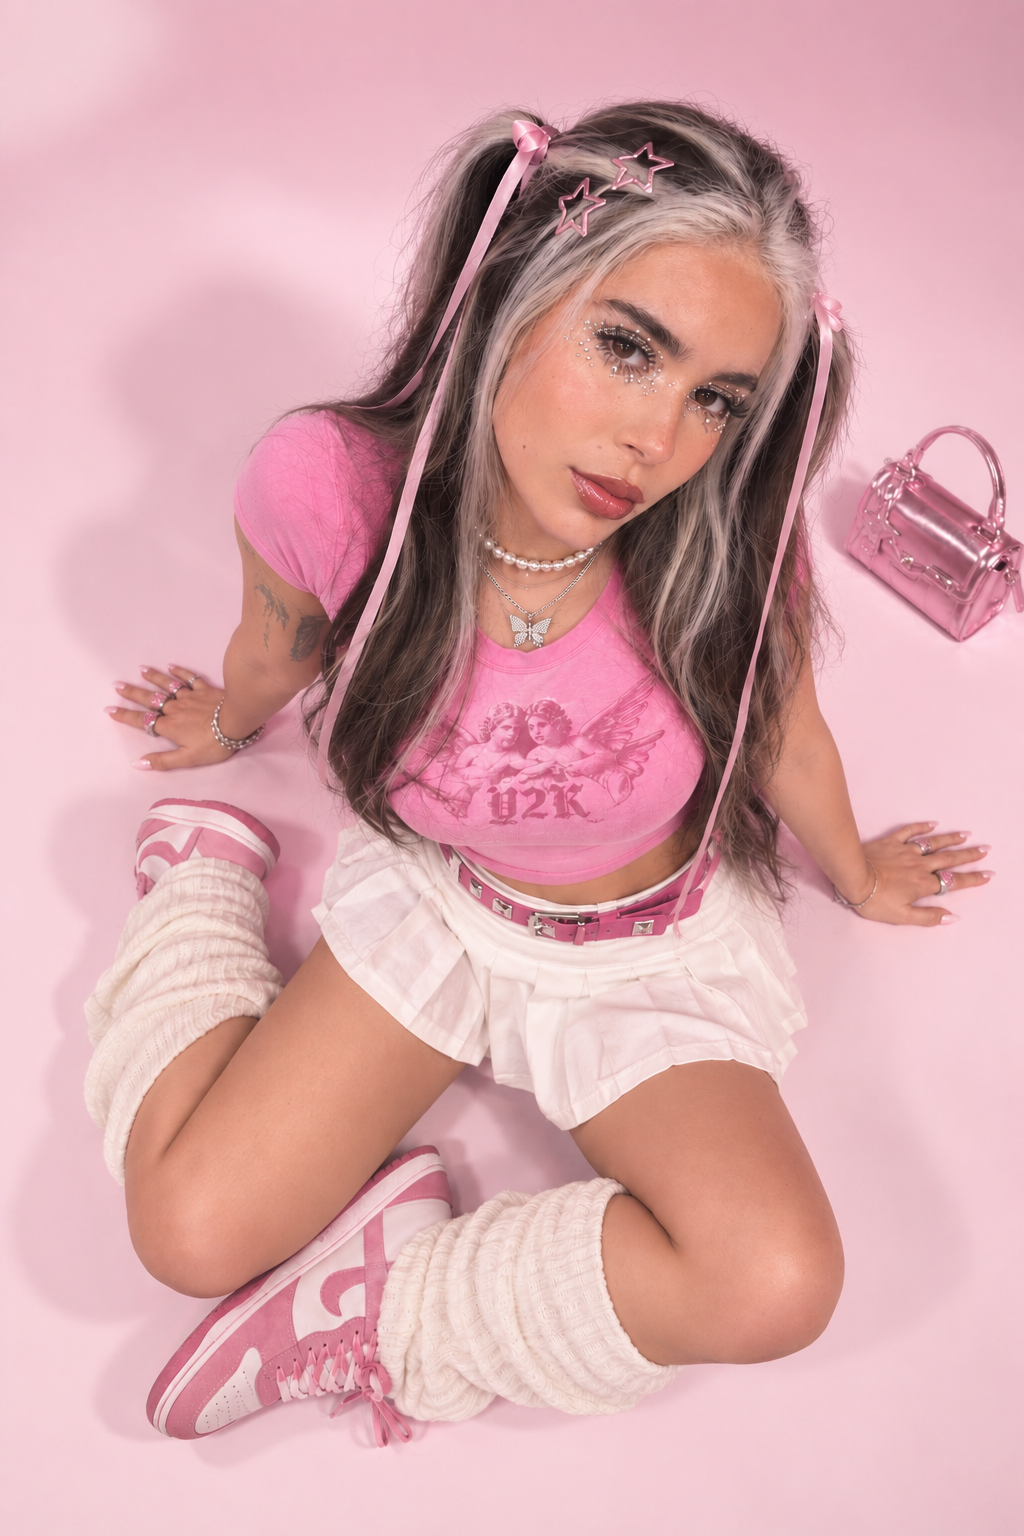
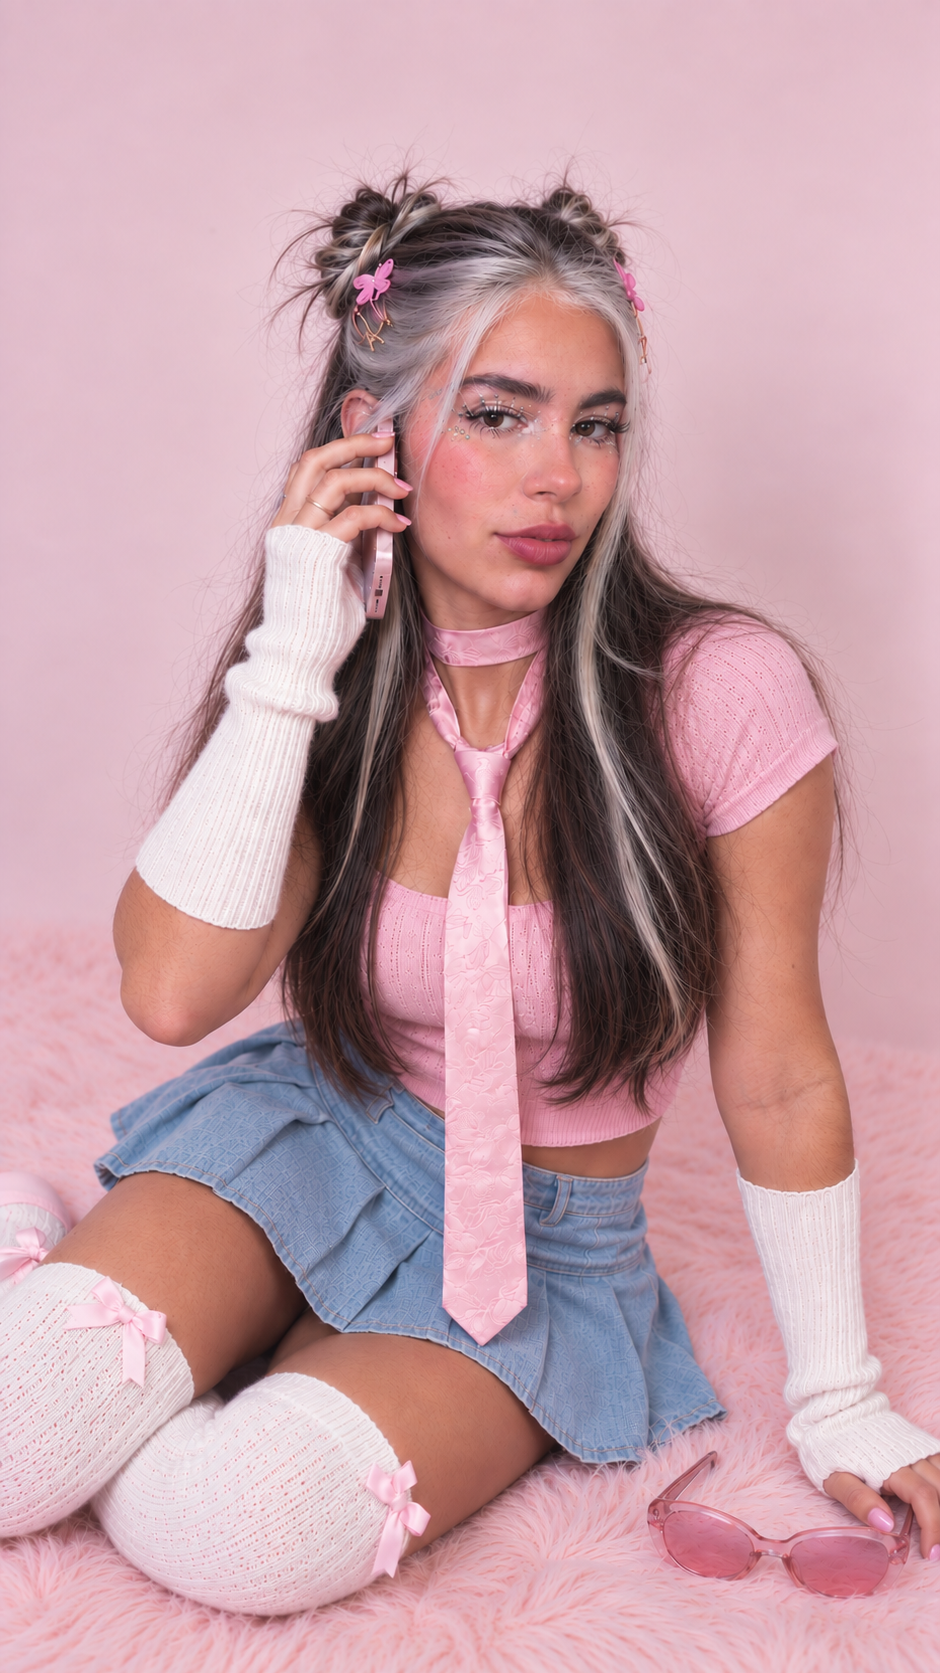
Videos tocam dentro da pagina, fotos atualizadas e ajustes de leitura
- Secao de videos reformulada: uma linha horizontal por categoria (com
  contagem, subtitulo e setas), preview silencioso no hover e clique
  abre lightbox que reproduz o video dentro da propria pagina (sem
  redirecionar pro youtube). Remove a aba "todos" e reordena "ads"
  para a 3a linha
- Fotos novas do Sobre Mim (retrato, bastidores, nano influencer) e
  legenda da 3a polaroide agora "hi, it's me ;)"
- Remove o brilho glossy das fotos reais (ph-real)
- Aumenta o texto de servicos, processo e duvidas pra melhor leitura
- Emoji do hero-sub trocado por beijo, na mesma linha do texto
- Pilha de polaroides abre mais (e mais pra cima) no hover
- .processo-list e .chat-window mais largos

diff --git a/index.html b/index.html
@@ -116,8 +116,9 @@ section{ position:relative; padding:100px 0 90px; }
 }
 .ph:hover::after{ transform:translateX(10%); }
 
-/* .ph-real: mesma moldura/glossy do placeholder, mas com foto de verdade dentro */
+/* .ph-real: mesma moldura do placeholder, mas com foto de verdade dentro (sem o brilho glossy) */
 .ph.ph-real{ padding:0; background:var(--black); }
+.ph.ph-real::after{ content:none; }
 .ph.ph-real img{ position:absolute; inset:0; width:100%; height:100%; object-fit:cover; }
 .ph span{ font-size:.8rem; opacity:.75; }
 
@@ -366,9 +367,9 @@ section{ position:relative; padding:100px 0 90px; }
 .photo-stack .polaroid:nth-child(1){ transform:rotate(-9deg) translate(-20px,-6px); z-index:1; }
 .photo-stack .polaroid:nth-child(2){ transform:rotate(6deg) translate(16px,8px); z-index:2; }
 .photo-stack .polaroid:nth-child(3){ transform:rotate(-2deg) translate(-2px,22px); z-index:3; }
-.photo-stack:hover .polaroid:nth-child(1){ transform:rotate(-15deg) translate(-54px,-12px); }
-.photo-stack:hover .polaroid:nth-child(2){ transform:rotate(10deg) translate(48px,4px); }
-.photo-stack:hover .polaroid:nth-child(3){ transform:rotate(-1deg) translate(0,30px); }
+.photo-stack:hover .polaroid:nth-child(1){ transform:rotate(-19deg) translate(-74px,-46px); }
+.photo-stack:hover .polaroid:nth-child(2){ transform:rotate(13deg) translate(68px,-30px); }
+.photo-stack:hover .polaroid:nth-child(3){ transform:rotate(-1deg) translate(0,20px); }
 @media (max-width:640px){
   .photo-stack{ width:180px; height:270px; }
   .photo-stack .polaroid{ width:180px; }
@@ -420,34 +421,43 @@ section{ position:relative; padding:100px 0 90px; }
    VÍDEOS
    ========================================================================== */
 .videos{ background:var(--pink-pale); border-bottom:3px dashed var(--black); }
-.filters{
-  display:flex; flex-wrap:wrap; gap:10px; justify-content:center; margin-bottom:44px;
+
+.video-rows{ display:flex; flex-direction:column; gap:52px; }
+.cat-row-head{
+  display:flex; justify-content:space-between; align-items:flex-end; gap:20px;
+  margin-bottom:18px; flex-wrap:wrap;
 }
-.filter-btn{
-  border:2.5px solid var(--black); background:var(--white); color:var(--black);
-  font-family:var(--f-label); letter-spacing:.05em; font-size:.85rem;
-  padding:9px 18px; border-radius:999px; box-shadow:var(--shadow-hard-sm);
+.cat-row-title{
+  font-family:var(--f-label); font-size:1.5rem; letter-spacing:.03em;
+  text-transform:uppercase; margin:0;
+}
+.cat-row-count{ font-family:var(--f-script); font-weight:700; font-size:1.05rem; color:var(--pink-hot); }
+.cat-row-sub{ font-family:var(--f-script); font-style:italic; font-weight:600; font-size:1.05rem; color:#5a4d47; margin:2px 0 0; }
+.cat-row-nav{ display:flex; gap:8px; flex-shrink:0; }
+.cat-nav-btn{
+  width:38px; height:38px; border-radius:50%; border:2.5px solid var(--black);
+  background:var(--white); box-shadow:var(--shadow-hard-sm); font-family:var(--f-label);
+  font-size:1.2rem; line-height:1; display:flex; align-items:center; justify-content:center;
   transition:transform .2s ease, background .2s ease, color .2s ease;
 }
-.filter-btn:hover{ transform:translateY(-3px) rotate(-2deg); }
-.filter-btn.active{ background:var(--pink-hot); color:var(--white); transform:rotate(1.5deg); }
-
-.video-grid{
-  display:grid; grid-template-columns:repeat(4,1fr); gap:22px;
+.cat-nav-btn:hover{ background:var(--pink-hot); color:var(--white); transform:translateY(-2px); }
+.cat-row-scroll{
+  display:flex; gap:18px; overflow-x:auto; padding:4px 4px 10px; scroll-behavior:smooth;
+  scrollbar-width:none;
 }
-@media (max-width:960px){ .video-grid{ grid-template-columns:repeat(3,1fr); } }
-@media (max-width:680px){ .video-grid{ grid-template-columns:repeat(2,1fr); } }
-@media (max-width:420px){ .video-grid{ grid-template-columns:1fr; } }
+.cat-row-scroll::-webkit-scrollbar{ display:none; }
+.cat-row-scroll .vcard{ flex:0 0 190px; }
+@media (max-width:640px){ .cat-row-scroll .vcard{ flex-basis:150px; } }
+
 .vcard{
-  display:block; text-decoration:none; color:inherit;
-  background:var(--white); border:2.5px solid var(--black); box-shadow:var(--shadow-hard);
+  display:block; background:var(--white); border:2.5px solid var(--black); box-shadow:var(--shadow-hard);
   overflow:hidden; transition:transform .3s ease, box-shadow .3s ease; cursor:pointer;
-  min-width:0; /* impede que texto longo force a coluna a crescer e desconfigure o tamanho */
 }
 .vcard:hover{ transform:translateY(-8px) rotate(-1deg); box-shadow:8px 10px 0 var(--pink-hot); }
-.vcard .cover{ position:relative; aspect-ratio:9/16; background:#000; }
+.vcard .cover{ position:relative; aspect-ratio:9/16; background:#000; overflow:hidden; }
 .vcard .cover .ph{ position:absolute; inset:0; font-size:.75rem; overflow-wrap:anywhere; }
 .vcard .cover-img{ position:absolute; inset:0; width:100%; height:100%; object-fit:cover; }
+.vcard .preview-frame{ position:absolute; inset:0; width:100%; height:100%; z-index:1; border:0; pointer-events:none; }
 .vcard .cat-tag{
   position:absolute; top:10px; left:10px; font-family:var(--f-label); font-size:.68rem;
   letter-spacing:.06em; background:var(--black); color:var(--pink-pale); padding:4px 10px;
@@ -467,6 +477,25 @@ section{ position:relative; padding:100px 0 90px; }
 .vcard .meta{ padding:14px 16px 18px; }
 .vcard .meta h3{ font-family:var(--f-label); font-size:1.15rem; letter-spacing:.02em; margin:0 0 4px; overflow-wrap:anywhere; }
 .vcard .meta p{ font-family:var(--f-script); font-weight:600; font-size:.98rem; color:#5a4d47; margin:0; overflow-wrap:anywhere; }
+
+/* lightbox: reproduz o vídeo dentro da própria página, sem sair pro youtube */
+.video-lightbox{
+  position:fixed; inset:0; background:rgba(24,19,15,.85); z-index:100;
+  display:flex; align-items:center; justify-content:center; padding:24px;
+  opacity:0; pointer-events:none; transition:opacity .3s ease;
+}
+.video-lightbox.show{ opacity:1; pointer-events:auto; }
+.video-lightbox-inner{ position:relative; width:100%; max-width:420px; }
+.video-lightbox-frame{
+  position:relative; width:100%; aspect-ratio:9/16; background:#000;
+  border:3px solid var(--black); box-shadow:8px 8px 0 var(--pink-hot); overflow:hidden;
+}
+.video-lightbox-frame iframe{ position:absolute; inset:0; width:100%; height:100%; border:0; }
+.video-lightbox-close{
+  position:absolute; top:-16px; right:-16px; width:38px; height:38px; border-radius:50%;
+  background:var(--white); border:2.5px solid var(--black); box-shadow:var(--shadow-hard-sm);
+  font-family:var(--f-label); font-size:1.1rem; z-index:2;
+}
 
 /* ==========================================================================
    TICKER DE MARCAS (variante não-fixa do ticker do topo)
@@ -523,8 +552,8 @@ section{ position:relative; padding:100px 0 90px; }
 .serv-card:hover{ transform:translateY(-6px) rotate(1.5deg); box-shadow:6px 8px 0 var(--pink-hot); }
 .serv-page{ position:absolute; top:14px; right:16px; font-family:var(--f-label); font-size:.7rem; color:#a89a92; }
 .serv-icon{ margin-bottom:14px; }
-.serv-card h3{ font-family:var(--f-label); font-size:1.3rem; letter-spacing:.02em; margin:0 0 8px; text-transform:uppercase; }
-.serv-card p{ font-family:var(--f-script); font-weight:600; font-size:1rem; color:#5a4d47; margin:0 0 12px; }
+.serv-card h3{ font-family:var(--f-label); font-size:1.45rem; letter-spacing:.02em; margin:0 0 10px; text-transform:uppercase; }
+.serv-card p{ font-family:var(--f-script); font-weight:600; font-size:1.15rem; line-height:1.45; color:#3f342f; margin:0 0 12px; }
 .serv-tag{
   display:inline-block; font-family:var(--f-label); font-size:.68rem; letter-spacing:.05em;
   text-transform:uppercase; background:var(--pink-pale); border:1.5px solid var(--black);
@@ -549,10 +578,10 @@ section{ position:relative; padding:100px 0 90px; }
   border:2.5px solid var(--black); color:var(--white); font-family:var(--f-display);
   font-size:1.4rem; display:flex; align-items:center; justify-content:center;
 }
-.processo-text{ font-family:var(--f-script); font-weight:600; font-size:1.05rem; line-height:1.4; }
+.processo-text{ font-family:var(--f-script); font-weight:600; font-size:1.2rem; line-height:1.45; }
 .processo-text strong{
   font-family:var(--f-label); letter-spacing:.03em; text-transform:uppercase;
-  color:var(--pink-deep); display:block; margin-bottom:2px; font-size:1rem;
+  color:var(--pink-deep); display:block; margin-bottom:3px; font-size:1.15rem;
 }
 @media (max-width:640px){
   .processo-item{ border-radius:22px; align-items:flex-start; padding:18px 20px; }
@@ -584,7 +613,7 @@ section{ position:relative; padding:100px 0 90px; }
   padding:0 4px; color:#7a6b64;
 }
 .chat-msg.a .chat-who{ color:var(--pink-deep); }
-.chat-bubble{ padding:13px 17px; border-radius:16px; font-family:var(--f-script); font-weight:600; font-size:1.05rem; line-height:1.4; }
+.chat-bubble{ padding:14px 18px; border-radius:16px; font-family:var(--f-script); font-weight:600; font-size:1.2rem; line-height:1.45; }
 .chat-msg.q .chat-bubble{ background:var(--pink-hot); color:var(--white); border-bottom-right-radius:4px; }
 .chat-msg.a .chat-bubble{ background:var(--pink-pale); border:1.5px solid var(--black); border-bottom-left-radius:4px; }
 @media (max-width:640px){ .chat-msg{ max-width:92%; } .chat-body{ padding:22px 18px; } }
@@ -712,7 +741,7 @@ section{ position:relative; padding:100px 0 90px; }
         </h1>
 
         <!-- frase real, adaptada do site rafamarzano.online -->
-        <p class="hero-sub">conteúdo que parece indicação de amiga, não propaganda ✨</p>
+        <p class="hero-sub">conteúdo que parece indicação de amiga, não propaganda&nbsp;💋</p>
 
         <div class="hero-actions">
           <a class="hero-btn primary" href="#contact">fale comigo</a>
@@ -825,7 +854,7 @@ section{ position:relative; padding:100px 0 90px; }
         <div class="about-side">
           <div class="photo-stack">
             <figure class="polaroid">
-              <div class="ph ph-real"><img src="imagens/sobre.jpg" alt="Rafaela Marzano"></div>
+              <div class="ph ph-real"><img src="imagens/sobre.png" alt="Rafaela Marzano"></div>
               <figcaption>hi, it's me</figcaption>
             </figure>
             <figure class="polaroid">
@@ -834,7 +863,7 @@ section{ position:relative; padding:100px 0 90px; }
             </figure>
             <figure class="polaroid">
               <div class="ph ph-real"><img src="imagens/sobre-nano-influencer.png" alt="Rafaela Marzano, nano influencer"></div>
-              <figcaption>nano influencer life</figcaption>
+              <figcaption>hi, it's me ;)</figcaption>
             </figure>
           </div>
           <div class="postit">bilhete: "Nano influencer e UGC creator. Conteúdo que funciona de verdade." ✨</div>
@@ -885,8 +914,7 @@ section{ position:relative; padding:100px 0 90px; }
       <div class="sec-underline"></div>
     </div>
 
-    <div class="filters" id="filters"></div>
-    <div class="video-grid" id="videoGrid"></div>
+    <div class="video-rows" id="videoRows"></div>
   </div>
 </section>
 
@@ -1060,6 +1088,16 @@ section{ position:relative; padding:100px 0 90px; }
 </section>
 
 <!-- ==========================================================================
+     LIGHTBOX DE VÍDEO — abre e reproduz dentro da própria página
+     ========================================================================== -->
+<div class="video-lightbox" id="videoLightbox">
+  <div class="video-lightbox-inner">
+    <button class="video-lightbox-close" id="videoLightboxClose" aria-label="Fechar">✕</button>
+    <div class="video-lightbox-frame" id="videoLightboxFrame"></div>
+  </div>
+</div>
+
+<!-- ==========================================================================
      MENU FIXO (dock)
      ========================================================================== -->
 <nav class="dock" aria-label="Navegação do portfólio">
@@ -1095,16 +1133,16 @@ const BRANDS = [
 ];
 
 // DADOS DOS VÍDEOS — categorias reais do portfólio rafamarzano.online.
-// "cats" é uma lista (um vídeo pode estar em mais de uma aba, ex. ads).
+// "cats" é uma lista (um vídeo pode estar em mais de uma linha, ex. ads).
+// A ordem aqui é a ordem das linhas na seção de vídeos (ads fica na 3ª linha).
 const CATEGORIES = [
-  { key: "all", label: "todos" },
-  { key: "ads", label: "ads" },
-  { key: "beleza", label: "beleza" },
-  { key: "moda", label: "moda e acessórios" },
-  { key: "tech", label: "tech" },
-  { key: "gastronomia", label: "gastronomia" },
-  { key: "decor", label: "home/decor" },
-  { key: "wellness-fit", label: "wellness/fit" },
+  { key: "beleza", label: "beleza", sub: "produtos que viram ritual de beleza" },
+  { key: "moda", label: "moda e acessórios", sub: "looks e achadinhos que dão vontade de comprar" },
+  { key: "ads", label: "ads", sub: "conteúdo pensado pra performar como anúncio" },
+  { key: "tech", label: "tech", sub: "tecnologia que resolve o dia a dia" },
+  { key: "gastronomia", label: "gastronomia", sub: "receitas e sabores que dão água na boca" },
+  { key: "decor", label: "home/decor", sub: "ambientes que inspiram" },
+  { key: "wellness-fit", label: "wellness/fit", sub: "rotina saudável sem parecer chato" },
 ];
 
 // Vídeos reais do portfólio (rafamarzano.online) — "id" é o ID do vídeo no
@@ -1202,25 +1240,18 @@ const FAQ = [
   track.innerHTML = build() + build();
 })();
 
-// ---- filtros de vídeo ----
-const filtersEl = document.getElementById('filters');
-filtersEl.innerHTML = CATEGORIES.map((c,i) =>
-  `<button class="filter-btn${i===0?' active':''}" data-cat="${c.key}">${c.label}</button>`
-).join('');
+// ---- vídeos: uma linha por categoria (ver print de referência), com preview
+//      silencioso no hover e reprodução dentro da própria página (lightbox) ----
+const videoRowsEl = document.getElementById('videoRows');
 
-// ---- cards de vídeo ----
-const videoGrid = document.getElementById('videoGrid');
-function renderVideos(filter){
-  const list = filter === 'all' ? VIDEOS : VIDEOS.filter(v => v.cats.includes(filter));
-  videoGrid.innerHTML = list.map(v => {
-    const catLabels = v.cats.map(k => (CATEGORIES.find(c => c.key === k) || {}).label || k);
-    const url = `https://youtube.com/shorts/${v.id}`;
-    // usa a capa local (imagens/portfolio-videos/) quando existir; senão, cai pra thumbnail do youtube
-    const coverImg = v.capa
-      ? `<img class="cover-img" src="imagens/portfolio-videos/${v.capa}" alt="${v.title}" loading="lazy">`
-      : `<img class="cover-img" src="https://i.ytimg.com/vi/${v.id}/maxresdefault.jpg" onerror="this.onerror=null;this.src='https://i.ytimg.com/vi/${v.id}/hqdefault.jpg';" alt="${v.title}" loading="lazy">`;
-    return `
-    <a class="vcard reveal in" href="${url}" target="_blank" rel="noopener noreferrer" data-video-id="${v.id}" data-video-title="${v.title}">
+function videoCardHtml(v){
+  const catLabels = v.cats.map(k => (CATEGORIES.find(c => c.key === k) || {}).label || k);
+  // usa a capa local (imagens/portfolio-videos/) quando existir; senão, a thumbnail do youtube
+  const coverImg = v.capa
+    ? `<img class="cover-img" src="imagens/portfolio-videos/${v.capa}" alt="${v.title}" loading="lazy">`
+    : `<img class="cover-img" src="https://i.ytimg.com/vi/${v.id}/maxresdefault.jpg" onerror="this.onerror=null;this.src='https://i.ytimg.com/vi/${v.id}/hqdefault.jpg';" alt="${v.title}" loading="lazy">`;
+  return `
+    <div class="vcard reveal in" tabindex="0" role="button" aria-label="Assistir: ${v.title}" data-video-id="${v.id}" data-video-title="${v.title}">
       <div class="cover">
         <span class="cat-tag">${catLabels.join(' · ')}</span>
         ${coverImg}
@@ -1231,27 +1262,74 @@ function renderVideos(filter){
       </div>
       <div class="meta">
         <h3>${v.title}</h3>
-        <p>▶ assistir no youtube</p>
+        <p>▶ assistir aqui</p>
       </div>
-    </a>`;
-  }).join('');
+    </div>`;
 }
-renderVideos('all');
 
-filtersEl.addEventListener('click', (e) => {
-  const btn = e.target.closest('.filter-btn');
-  if(!btn) return;
-  filtersEl.querySelectorAll('.filter-btn').forEach(b => b.classList.remove('active'));
-  btn.classList.add('active');
-  renderVideos(btn.dataset.cat);
+videoRowsEl.innerHTML = CATEGORIES.map(cat => {
+  const vids = VIDEOS.filter(v => v.cats.includes(cat.key));
+  if(!vids.length) return '';
+  return `
+  <div class="cat-row">
+    <div class="cat-row-head">
+      <div>
+        <h3 class="cat-row-title">${cat.label} <span class="cat-row-count">${vids.length}</span></h3>
+        <p class="cat-row-sub">${cat.sub || ''}</p>
+      </div>
+      <div class="cat-row-nav">
+        <button class="cat-nav-btn cat-nav-prev" aria-label="voltar">‹</button>
+        <button class="cat-nav-btn cat-nav-next" aria-label="avançar">›</button>
+      </div>
+    </div>
+    <div class="cat-row-scroll">${vids.map(videoCardHtml).join('')}</div>
+  </div>`;
+}).join('');
+
+// setas de navegação horizontal de cada linha
+videoRowsEl.querySelectorAll('.cat-row').forEach(row => {
+  const scroller = row.querySelector('.cat-row-scroll');
+  row.querySelector('.cat-nav-prev').addEventListener('click', () => scroller.scrollBy({ left: -420, behavior: 'smooth' }));
+  row.querySelector('.cat-nav-next').addEventListener('click', () => scroller.scrollBy({ left: 420, behavior: 'smooth' }));
 });
 
-// registra o clique em "video_view" quando existir integração de rastreamento (ver js/tracking.js)
-videoGrid.addEventListener('click', (e) => {
-  const card = e.target.closest('.vcard');
-  if(!card || !window.Tracking) return;
-  Tracking.evento('video_view', card.dataset.videoId, { title: card.dataset.videoTitle });
+// hover: preview silencioso (autoplay + mute) direto no card; sai ao tirar o mouse
+videoRowsEl.querySelectorAll('.vcard').forEach(card => {
+  const id = card.dataset.videoId;
+  const cover = card.querySelector('.cover');
+  card.addEventListener('mouseenter', () => {
+    if(cover.querySelector('.preview-frame')) return;
+    const frame = document.createElement('iframe');
+    frame.className = 'preview-frame';
+    frame.src = `https://www.youtube.com/embed/${id}?autoplay=1&mute=1&controls=0&loop=1&playlist=${id}&playsinline=1&modestbranding=1&rel=0`;
+    frame.setAttribute('allow', 'autoplay; encrypted-media');
+    frame.setAttribute('frameborder', '0');
+    cover.appendChild(frame);
+  });
+  card.addEventListener('mouseleave', () => {
+    const frame = cover.querySelector('.preview-frame');
+    if(frame) frame.remove();
+  });
+  const abrir = () => openVideoLightbox(id, card.dataset.videoTitle);
+  card.addEventListener('click', abrir);
+  card.addEventListener('keydown', (e) => { if(e.key === 'Enter' || e.key === ' '){ e.preventDefault(); abrir(); } });
 });
+
+// lightbox: clique no card reproduz o vídeo (com som) dentro da própria página, sem sair pro youtube
+const videoLightbox = document.getElementById('videoLightbox');
+const videoLightboxFrame = document.getElementById('videoLightboxFrame');
+const videoLightboxClose = document.getElementById('videoLightboxClose');
+function openVideoLightbox(id, title){
+  videoLightboxFrame.innerHTML = `<iframe src="https://www.youtube.com/embed/${id}?autoplay=1&playsinline=1&rel=0" title="${title}" allow="autoplay; encrypted-media; fullscreen" allowfullscreen></iframe>`;
+  videoLightbox.classList.add('show');
+  if(window.Tracking) Tracking.evento('video_view', id, { title });
+}
+function closeVideoLightbox(){
+  videoLightbox.classList.remove('show');
+  videoLightboxFrame.innerHTML = '';
+}
+videoLightboxClose.addEventListener('click', closeVideoLightbox);
+videoLightbox.addEventListener('click', (e) => { if(e.target === videoLightbox) closeVideoLightbox(); });
 
 // ---- cards de foto ----
 const photoGrid = document.getElementById('photoGrid');
@@ -1329,7 +1407,7 @@ document.querySelectorAll('.hero-social, .social-stickers').forEach(el =>
   el.addEventListener('click', rastrearCliqueDeCanal)
 );
 
-// ---- doodles interativos (hero e demais seções): hover já reage via CSS, clique dá um "pop" ----
+// ---- doodles interativos do hero: hover já reage via CSS, clique dá um "pop" ----
 document.querySelectorAll('.doodle-interactive').forEach(el => {
   el.addEventListener('click', () => {
     el.classList.remove('pop');
